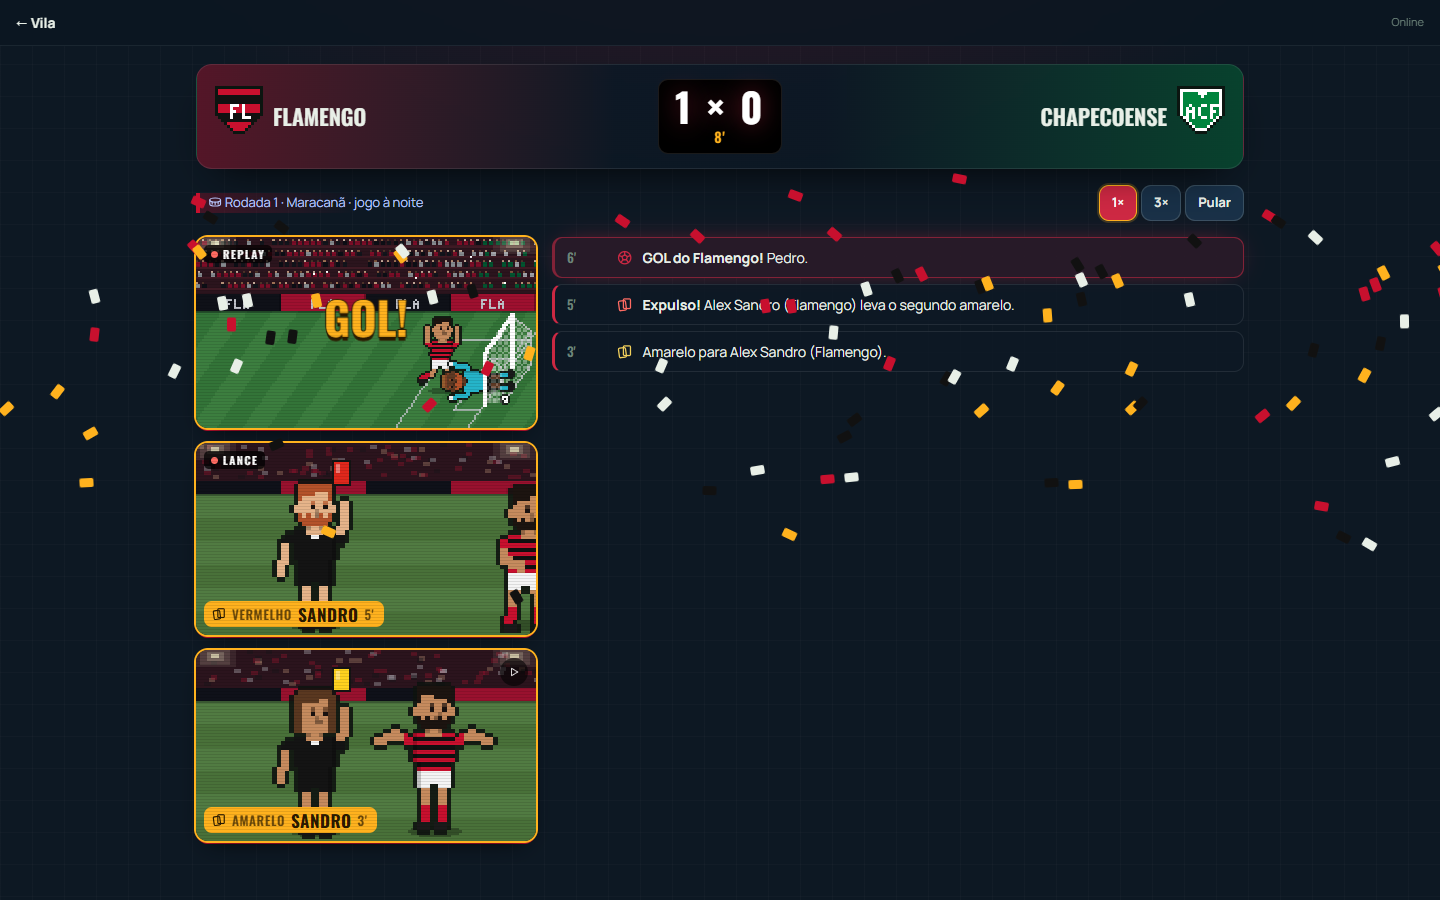
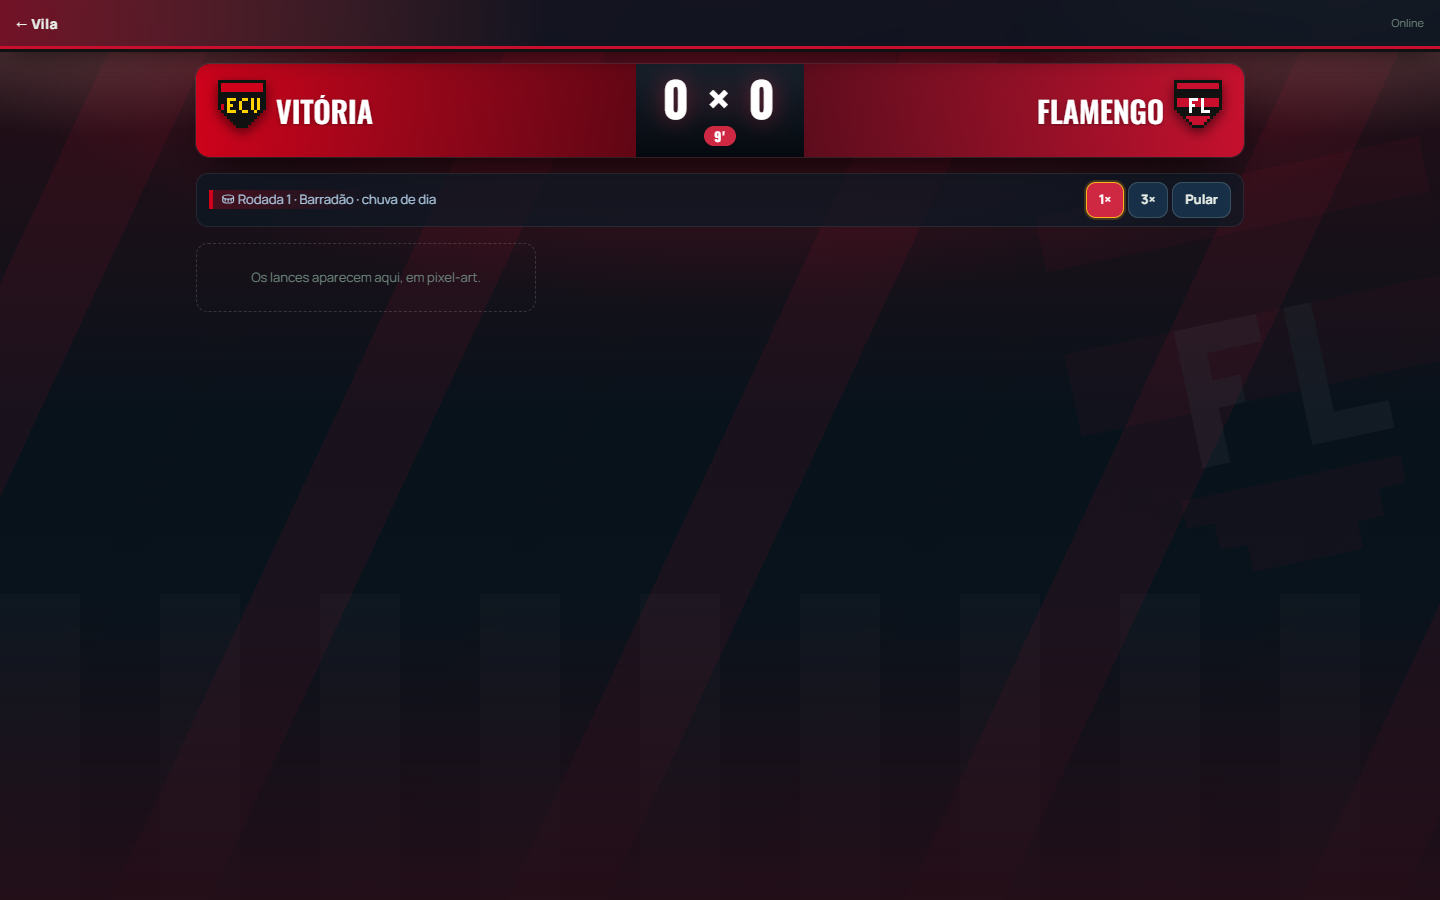
Carreira: a página inteira na cor do clube e o placar de TV na partida

diff --git a/public/carreira/estilo.css b/public/carreira/estilo.css
@@ -735,3 +735,64 @@ body:is([data-tela=inicio],[data-tela=grupo]) #tela{max-width:1180px}
 @media (prefers-reduced-motion:reduce){.hub .clube{transition:none}.hub .clube:hover:not(:disabled){transform:none}}
 /* os botões principais na cor do clube (no lugar do âmbar antigo), dentro dos diálogos e das telas do hub */
 .dialogo button.primario,.hub button.primario:not(.cta){background:var(--acento);color:var(--acento-tinta);box-shadow:0 4px 0 color-mix(in srgb,var(--acento) 55%,#000),0 0 22px -10px var(--acento)}
+/* ---------- a cor do clube na página inteira ----------
+   O estádio deixa de ser verde: os refletores, as faixas na diagonal e a arquibancada ficam nas cores do clube, e o
+   escudo gigante fica de marca d'água atrás de tudo (#marcaClube, montado em inicio.js). Sem clube, fica o azul-noite. */
+.hub::before{background:
+    radial-gradient(560px 280px at 6% -60px,#fff8d955,transparent 70%),
+    radial-gradient(560px 280px at 94% -60px,#fff8d955,transparent 70%),
+    radial-gradient(1100px 520px at 50% -80px,color-mix(in srgb,var(--clube) 46%,transparent),transparent 74%),
+    repeating-linear-gradient(115deg,transparent 0 120px,color-mix(in srgb,var(--clube) 9%,transparent) 120px 210px,transparent 210px 330px,color-mix(in srgb,var(--clube2) 5%,transparent) 330px 360px),
+    linear-gradient(180deg,color-mix(in srgb,var(--clube) 18%,#05090f) 0%,#08121b 46%,#0a141d 100%)}
+.hub::after{height:34%;background:linear-gradient(180deg,transparent 0%,color-mix(in srgb,var(--clube) 14%,#060b11cc) 100%),
+    repeating-linear-gradient(90deg,#ffffff05 0 80px,transparent 80px 160px)}
+/* o fundo do estádio (z -2) e a marca (z -1) ficam atrás do conteúdo: a .hub deixa de isolar e o body fica sem fundo próprio */
+body{background:none}.hub{isolation:auto}.hub::before,.hub::after{z-index:-2}
+.marca-clube{position:fixed;right:-4vw;top:16vh;z-index:-1;pointer-events:none;opacity:.07;transform:rotate(-12deg);filter:saturate(1.2)}
+.marca-clube .escudo{--e:28!important}
+body[data-tela=partida] .marca-clube{opacity:.04}
+#barra{background:linear-gradient(90deg,color-mix(in srgb,var(--clube) 55%,#0a1520) 0%,#0a1520e6 38%);border-bottom:0;
+  box-shadow:0 3px 0 var(--clube),0 6px 0 var(--clube2),0 10px 30px -10px #000}
+#barra .voltar{font-weight:800;letter-spacing:.02em}
+/* os painéis com um toque da cor do clube e uma faixa em cima */
+.hub .quadro{background:linear-gradient(180deg,color-mix(in srgb,var(--clube) 9%,#11233399),#0c1824c4);
+  border-color:color-mix(in srgb,var(--clube) 26%,#ffffff14)}
+.hub .quadro::before{content:"";position:absolute;left:12px;right:12px;top:0;height:3px;border-radius:0 0 3px 3px;background:linear-gradient(90deg,var(--clube) 0 60%,var(--clube2) 60% 80%,transparent 80%);opacity:.85;pointer-events:none}
+.hub .quadro:not(.filtros,.hub-lado){position:relative} /* a faixa precisa do painel posicionado; os grudados continuam sticky */
+/* o topo de cada tela: uma faixa de transmissão com as listras do clube */
+.hub .topo-tela,.hub-topo{background:
+    repeating-linear-gradient(115deg,transparent 0 22px,color-mix(in srgb,var(--clube2) 9%,transparent) 22px 30px) right/42% 100% no-repeat,
+    linear-gradient(100deg,color-mix(in srgb,var(--clube) 62%,#0c1824) 0%,color-mix(in srgb,var(--clube) 24%,#0c1824e6) 48%,#0c1824cc 100%);
+  border-color:color-mix(in srgb,var(--clube) 45%,transparent);box-shadow:inset 6px 0 0 var(--clube2),var(--sombra-hub)}
+.hub .topo-tela h1,.hub .topo-tela h2{font-size:clamp(30px,3.2vw,44px);text-shadow:0 3px 0 #0006}
+.hub-topo .cab-numeros>div{background:#00000047;border-color:#ffffff1f}
+/* a tela inicial: cada clube com a faixa das suas cores; escolher um já pinta a página */
+.hub .clube{background:linear-gradient(110deg,color-mix(in srgb,var(--clube) 30%,#0a1520) 0%,#0a1520d9 55%);border-color:color-mix(in srgb,var(--clube) 30%,#ffffff12);
+  box-shadow:inset 4px 0 0 var(--clube),inset 7px 0 0 var(--clube2)}
+.hub .clube:hover:not(:disabled){box-shadow:inset 4px 0 0 var(--clube),inset 7px 0 0 var(--clube2),0 16px 34px -14px var(--clube)}
+.hub .clube[aria-pressed=true]{background:linear-gradient(110deg,color-mix(in srgb,var(--clube) 55%,#0a1520) 0%,color-mix(in srgb,var(--clube) 18%,#0a1520) 100%);
+  box-shadow:inset 4px 0 0 var(--clube2),0 0 0 2px var(--acento),0 18px 40px -12px var(--acento)}
+.hub .capa h1{font-size:clamp(44px,6vw,84px);text-shadow:0 6px 30px color-mix(in srgb,var(--clube) 40%,transparent)}
+/* a prancheta: o gramado com a luz do refletor e a moldura do clube */
+.hub .campo{border-color:color-mix(in srgb,var(--clube) 55%,#ffffff40);box-shadow:0 0 0 6px #0c182499,0 24px 60px -20px #000,0 0 60px -20px var(--clube)}
+/* a partida: o placar de transmissão de TV, cada lado na cor do seu clube */
+#partida .placar{gap:0;padding:0;overflow:hidden;border-radius:14px;background:#05090f;border:0;box-shadow:0 0 0 1px #ffffff1a,0 24px 50px -20px #000}
+#partida .placar .time{padding:16px 22px;align-self:stretch}
+#partida .placar .casa{background:linear-gradient(100deg,var(--casa),color-mix(in srgb,var(--casa) 45%,#05090f))}
+#partida .placar .fora{background:linear-gradient(260deg,var(--fora),color-mix(in srgb,var(--fora) 45%,#05090f))}
+#partida .placar .time b{text-shadow:0 2px 6px #0005}#partida .placar .casa b{color:var(--casa-tinta,#fff)}#partida .placar .fora b{color:var(--fora-tinta,#fff)}#partida .placar .time b{font-size:clamp(20px,2.2vw,30px)}
+#partida .placar .escudo{filter:drop-shadow(0 4px 6px #0009)}
+#partida .marcador{border-radius:0;border:0;padding:8px 26px;background:linear-gradient(180deg,#18212c,#05090f);min-width:150px;align-self:stretch;justify-content:center}
+#partida #pGols{font-size:48px}
+#partida #pRelogio{display:inline-block;margin-top:4px;padding:1px 10px;border-radius:99px;background:var(--acento);color:var(--acento-tinta);font:700 13px/1.4 var(--titulo)}
+#partida .faixa-jogo{padding:8px 12px;border-radius:12px;background:#0c1824b3;border:1px solid #ffffff14}
+.narracao li{-webkit-backdrop-filter:blur(8px);backdrop-filter:blur(8px)}
+.narracao li.gol{font-size:16px;font-weight:800}
+@media (max-width:760px){#partida .placar .time{padding:10px}#partida .marcador{min-width:96px;padding:6px 10px}#partida #pGols{font-size:32px}.marca-clube{display:none}}
+/* cada tela entra subindo; quem pede menos movimento fica sem */
+@media (prefers-reduced-motion:no-preference){
+  .hub:not(.hidden)>*{animation:tela-entra .42s var(--ease-out) both}.hub>*:nth-child(2){animation-delay:.05s}.hub>*:nth-child(3){animation-delay:.1s}.hub>*:nth-child(n+4){animation-delay:.15s}
+  .marca-clube .escudo{animation:marca-entra .9s var(--ease-out) both}
+}
+@keyframes tela-entra{from{opacity:0;transform:translateY(14px)}to{opacity:1;transform:none}}
+@keyframes marca-entra{from{opacity:0;transform:rotate(-14deg) scale(.82)}to{opacity:1;transform:none}}

diff --git a/public/carreira/inicio.js b/public/carreira/inicio.js
@@ -91,6 +91,8 @@ function temaClube(id) {
   const tinta = contraste(acento, "#ffffff") >= contraste(acento, "#111111") ? "#ffffff" : "#111111";
   return `--acento:${acento};--acento2:${c.cores.find((cor) => cor !== base) || "#ffffff"};--acento-tinta:${tinta}`;
 }
+// o escudo gigante do clube atrás de tudo (a marca d'água)
+const marcaClube = (id) => { const m = $("marcaClube"); if (m && m.dataset.clube !== (id || "")) { m.dataset.clube = id || ""; m.innerHTML = id ? escudo(id, 28) : ""; } };
 const coresClube = (id) => (CLUBES[id] ? `--clube:${CLUBES[id].cores[0]};--clube2:${CLUBES[id].cores[1]};--clube-tinta:${tintaSobre(CLUBES[id].cores[0], CLUBES[id].cores[1])}` : "");
 // a festa (gol seu, contratação): confete nas cores do clube; quem pede menos movimento fica sem
 const festa = () => { if (matchMedia("(prefers-reduced-motion: reduce)").matches || !E) return; const c = CLUBES[E.clube]; Comum.confetti([c.cores[0], c.cores[1], "#ffb21e", "#e8efe7"]); };
@@ -127,6 +129,7 @@ function receber(estado) {
   // os jovens que subiram da base não estão nos arquivos: chegam com o estado (o clube de origem vem do id)
   for (const [id, j] of Object.entries(E.jovens || {})) { JOGADORES[id] = { ...j, origem: id.replace(/-t\d+b\d+$/, "") }; registrarRosto(j); }
   document.body.style.cssText = `${coresClube(E.clube)};${temaClube(E.clube)}`;
+  marcaClube(E.clube);
   if (telaAtual && telaAtual !== "partida" && telaAtual !== "inicio") desenharTela(telaAtual);
   animarTransferenciasNovas();
 }
@@ -137,7 +140,8 @@ $("fichaFechar").innerHTML = ic("fechar");
 // ---------- começar ----------
 function telaInicio() {
   usarBase(BASE_PADRAO);
-  document.body.style.cssText = "";
+  document.body.style.cssText = clubeEscolhido ? `${coresClube(clubeEscolhido)};${temaClube(clubeEscolhido)}` : "";
+  marcaClube(clubeEscolhido);
   if (!$("cNome").value) $("cNome").value = store.get("galera:name") || ""; // não apaga o que a pessoa já digitou
   $("avisoBase").innerHTML = `${ic("livro")} ${h(BASE.nome)} ${BASE.ano}: Brasileirão e cinco grandes ligas, com Libertadores, Champions e Mundial.`;
   $("avisoBase").classList.remove("hidden");
@@ -166,6 +170,8 @@ $("clubes").addEventListener("click", (e) => {
   const b = e.target.closest("[data-clube]"); if (!b) return;
   clubeEscolhido = b.dataset.clube;
   for (const x of $("clubes").children) x.setAttribute("aria-pressed", String(x.dataset.clube === clubeEscolhido));
+  document.body.style.cssText = `${coresClube(clubeEscolhido)};${temaClube(clubeEscolhido)}`; // a página já ganha a cor do clube
+  marcaClube(clubeEscolhido);
   mostrarSituacao();
 });
 // o que a situação do clube escolhido quer dizer

diff --git a/public/carreira/partida.js b/public/carreira/partida.js
@@ -55,7 +55,7 @@ function abrirPartida(rodada) {
   if (nova) { J.i = 0; J.relogio = 0; $("narracao").innerHTML = ""; $("replays").innerHTML = ""; }
   $("pEscudoCasa").innerHTML = escudo(J.casa, 3); $("pEscudoFora").innerHTML = escudo(J.fora, 3);
   $("pNomeCasa").textContent = nomeClube(J.casa); $("pNomeFora").textContent = nomeClube(J.fora);
-  $("partida").style.cssText = `--casa:${CLUBES[J.casa].cores[0]};--fora:${CLUBES[J.fora].cores[0]};--mando:${CLUBES[J.casa].cores[0]}`;
+  $("partida").style.cssText = `--casa:${CLUBES[J.casa].cores[0]};--fora:${CLUBES[J.fora].cores[0]};--mando:${CLUBES[J.casa].cores[0]};--casa-tinta:${tintaSobre(CLUBES[J.casa].cores[0], "#ffffff")};--fora-tinta:${tintaSobre(CLUBES[J.fora].cores[0], "#ffffff")}`;
   J.clima = climaDoJogo(E.temporada, J.rodada, J.casa, J.fora);
   $("partida").classList.remove("clima-dia", "clima-noite", "clima-chuva");
   $("partida").classList.add(`clima-${J.clima.hora}`); if (J.clima.chuva) $("partida").classList.add("clima-chuva");

diff --git a/public/carreira/grupo.js b/public/carreira/grupo.js
@@ -75,6 +75,7 @@ function desenharSala() {
     + (anfitriao ? "" : `<p class="suave">Só o anfitrião muda as regras.</p>`);
   $("gMeuClube").textContent = eu && eu.clube ? `Você: ${nomeClube(eu.clube)}` : "";
   document.body.style.cssText = eu && eu.clube ? `${coresClube(eu.clube)};${temaClube(eu.clube)}` : ""; // a sala já ganha a cor do clube escolhido
+  marcaClube(eu && eu.clube);
   const orc = (c) => c.orcamento || Orcamentos.de(c).caixa, ordemLiga = (c) => ["brasileirao-2026", ...Temporada.EUROPA].indexOf(c.liga);
   $("gClubes").innerHTML = st.clubes.map((id) => CLUBES[id]).filter(Boolean).sort((a, b) => ordemLiga(a) - ordemLiga(b) || orc(b) - orc(a)).map((c) => {
     const dono = st.ocupados[c.id], meu = dono === MEU_ID, outro = dono && !meu ? st.players.find((p) => p.id === dono) : null;

diff --git a/public/carreira/index.html b/public/carreira/index.html
@@ -16,6 +16,7 @@
   <a href="/" class="voltar">← Vila</a>
   <span id="conexao" role="status">Conectando…</span>
 </header>
+<div id="marcaClube" class="marca-clube" aria-hidden="true"></div>
 <main id="tela">
   <!-- começar: nova carreira ou continuar pelo código -->
   <section id="inicio" class="tela hidden hub">
@@ -185,7 +186,7 @@
   </section>
 
   <!-- a partida ao vivo -->
-  <section id="partida" class="tela hidden">
+  <section id="partida" class="tela hidden hub">
     <div class="placar" aria-live="polite">
       <div class="time casa"><span id="pEscudoCasa"></span><b id="pNomeCasa"></b></div>
       <div class="marcador"><span id="pGols">0 × 0</span><time id="pRelogio">0'</time></div>

diff --git a/MUDANCAS.md b/MUDANCAS.md
@@ -1,35 +1,42 @@
-# Carreira: a revolução visual (as telas que faltavam, as transferências animadas e o leilão)
+# Carreira: a revolução visual (a página inteira na cor do clube, a partida de TV, as transferências animadas e o leilão)
 
-Depois do hub e das telas de menu, o resto da carreira entra no mesmo visual: o estádio à noite, os painéis de vidro e
-a cor do seu clube.
+Depois do hub e das telas de menu, a carreira inteira passa a ter a cara do seu clube: não só os detalhes, mas o fundo,
+os painéis, a barra do topo e o placar.
 
-## As telas que faltavam
-- **Tela inicial e sala da carreira em grupo:**
-  - ganham o estádio ao fundo e o título com degradê;
-  - os clubes sobem e brilham ao passar o mouse, e o escolhido fica com a borda na cor de destaque.
-- **Diálogos (ficha, decisão no jogo, pós-jogo, disputa e código):** vidro escuro com a borda e o brilho na cor do
-  clube, e o fundo desfocado atrás.
-- **Partida:**
-  - o placar de vidro vai da cor do mandante à do visitante;
-  - o gol brilha na cor de destaque na narração, e os lances do seu time têm o filete do clube;
-  - os botões de velocidade usam a cor do clube.
-- **Botões principais** dentro dos diálogos e das telas: saem do âmbar antigo e vão para a cor do clube. O botão "3×"
-  da rodada em grupo também. O e2e que conferia o âmbar agora confere a cor do clube.
+## A cor do clube na página inteira
+- **O estádio deixa de ser verde:** os refletores, as faixas na diagonal e a arquibancada ficam nas cores do clube. Com o
+  Flamengo a página fica vermelha e preta; com o Palmeiras, verde; com o Cruzeiro, azul.
+- **O escudo gigante** do clube fica de marca d'água atrás de tudo (`#marcaClube`, montado em `inicio.js`).
+- **A barra do topo** ganha a faixa nas duas cores do clube, e cada painel tem um filete com elas em cima.
+- **O topo de cada tela** (sede, elenco, mercado, tabela, calendário, notícias) vira uma faixa de transmissão na cor do
+  clube, com listras.
+- **Na tela inicial**, escolher o clube já pinta a página. Cada clube da lista tem a faixa das suas cores.
+- As telas entram subindo (quem pede menos movimento fica sem).
+
+## A partida
+- **O placar de transmissão de TV:** cada lado preenchido com a cor do seu clube, com o nome na cor que dá leitura
+  (escuro em clube branco, como o Santos), e o relógio numa pílula na cor do seu clube.
+- A partida também ganha o estádio ao fundo.
+
+## As outras telas
+- **Tela inicial, sala em grupo, diálogos (ficha, decisão, pós-jogo, disputa, código):** vidro escuro com a borda e o
+  brilho na cor do clube.
+- **Botões principais:** saem do âmbar antigo e vão para a cor do clube. O e2e que conferia o âmbar no "3×" agora confere
+  a cor do clube.
 
 ## Transferências animadas
-- O Codex já tinha feito a cena da transferência no #85 (`AnimacoesCarreira.animarTransferencia`: o card, os escudos
-  de origem e destino, o carimbo e o martelo). Ela só tocava quando você comprava ou vendia pela ficha, na disputa ou
-  no leilão.
-- Agora ela também toca nas transferências do seu clube que chegam sem um clique seu: uma proposta aceita pela caixa
-  de entrada, a venda da lista ou o leilão que você levou (`animarTransferenciasNovas`, em `inicio.js`). A contratação
+- O Codex já tinha feito a cena da transferência no #85 (`AnimacoesCarreira.animarTransferencia`: o card, os escudos,
+  o carimbo e o martelo). Ela só tocava quando você comprava ou vendia pela ficha, na disputa ou no leilão.
+- Agora ela também toca nas transferências do seu clube que chegam sem um clique seu: a proposta aceita pela caixa de
+  entrada, a venda da lista ou o leilão que você levou (`animarTransferenciasNovas`, em `inicio.js`). A contratação
   ganha confete. Na primeira vez que o estado chega, nada anima.
 
 ## Leilão
-- A faixa do leilão (que o #85 já tinha deixado viva) mostra o histórico dos últimos lances, com o escudo de quem está
-  na briga e o maior lance em destaque.
+- A faixa do leilão mostra o histórico dos últimos lances, com o escudo de quem está na briga e o maior lance em destaque.
 
 ## Conferido
-- **Fotos:** `planos/imagens/carreira-visual-inicio.png`, `carreira-visual-ficha.png`, `carreira-visual-partida.png` e
-  `carreira-visual-posjogo.png`.
+- **Fotos:** `planos/imagens/carreira-visual-inicio.png`, `carreira-visual-sede.png`, `carreira-visual-mercado.png`,
+  `carreira-visual-partida.png`, `carreira-visual-ficha.png` e `carreira-visual-posjogo.png`.
 - **E2E da carreira:** 6 de 6.
+- O tema do clube foi conferido no solo e no grupo (cada técnico vê a sua cor).
 - A mudança é só no navegador (o servidor não muda).
